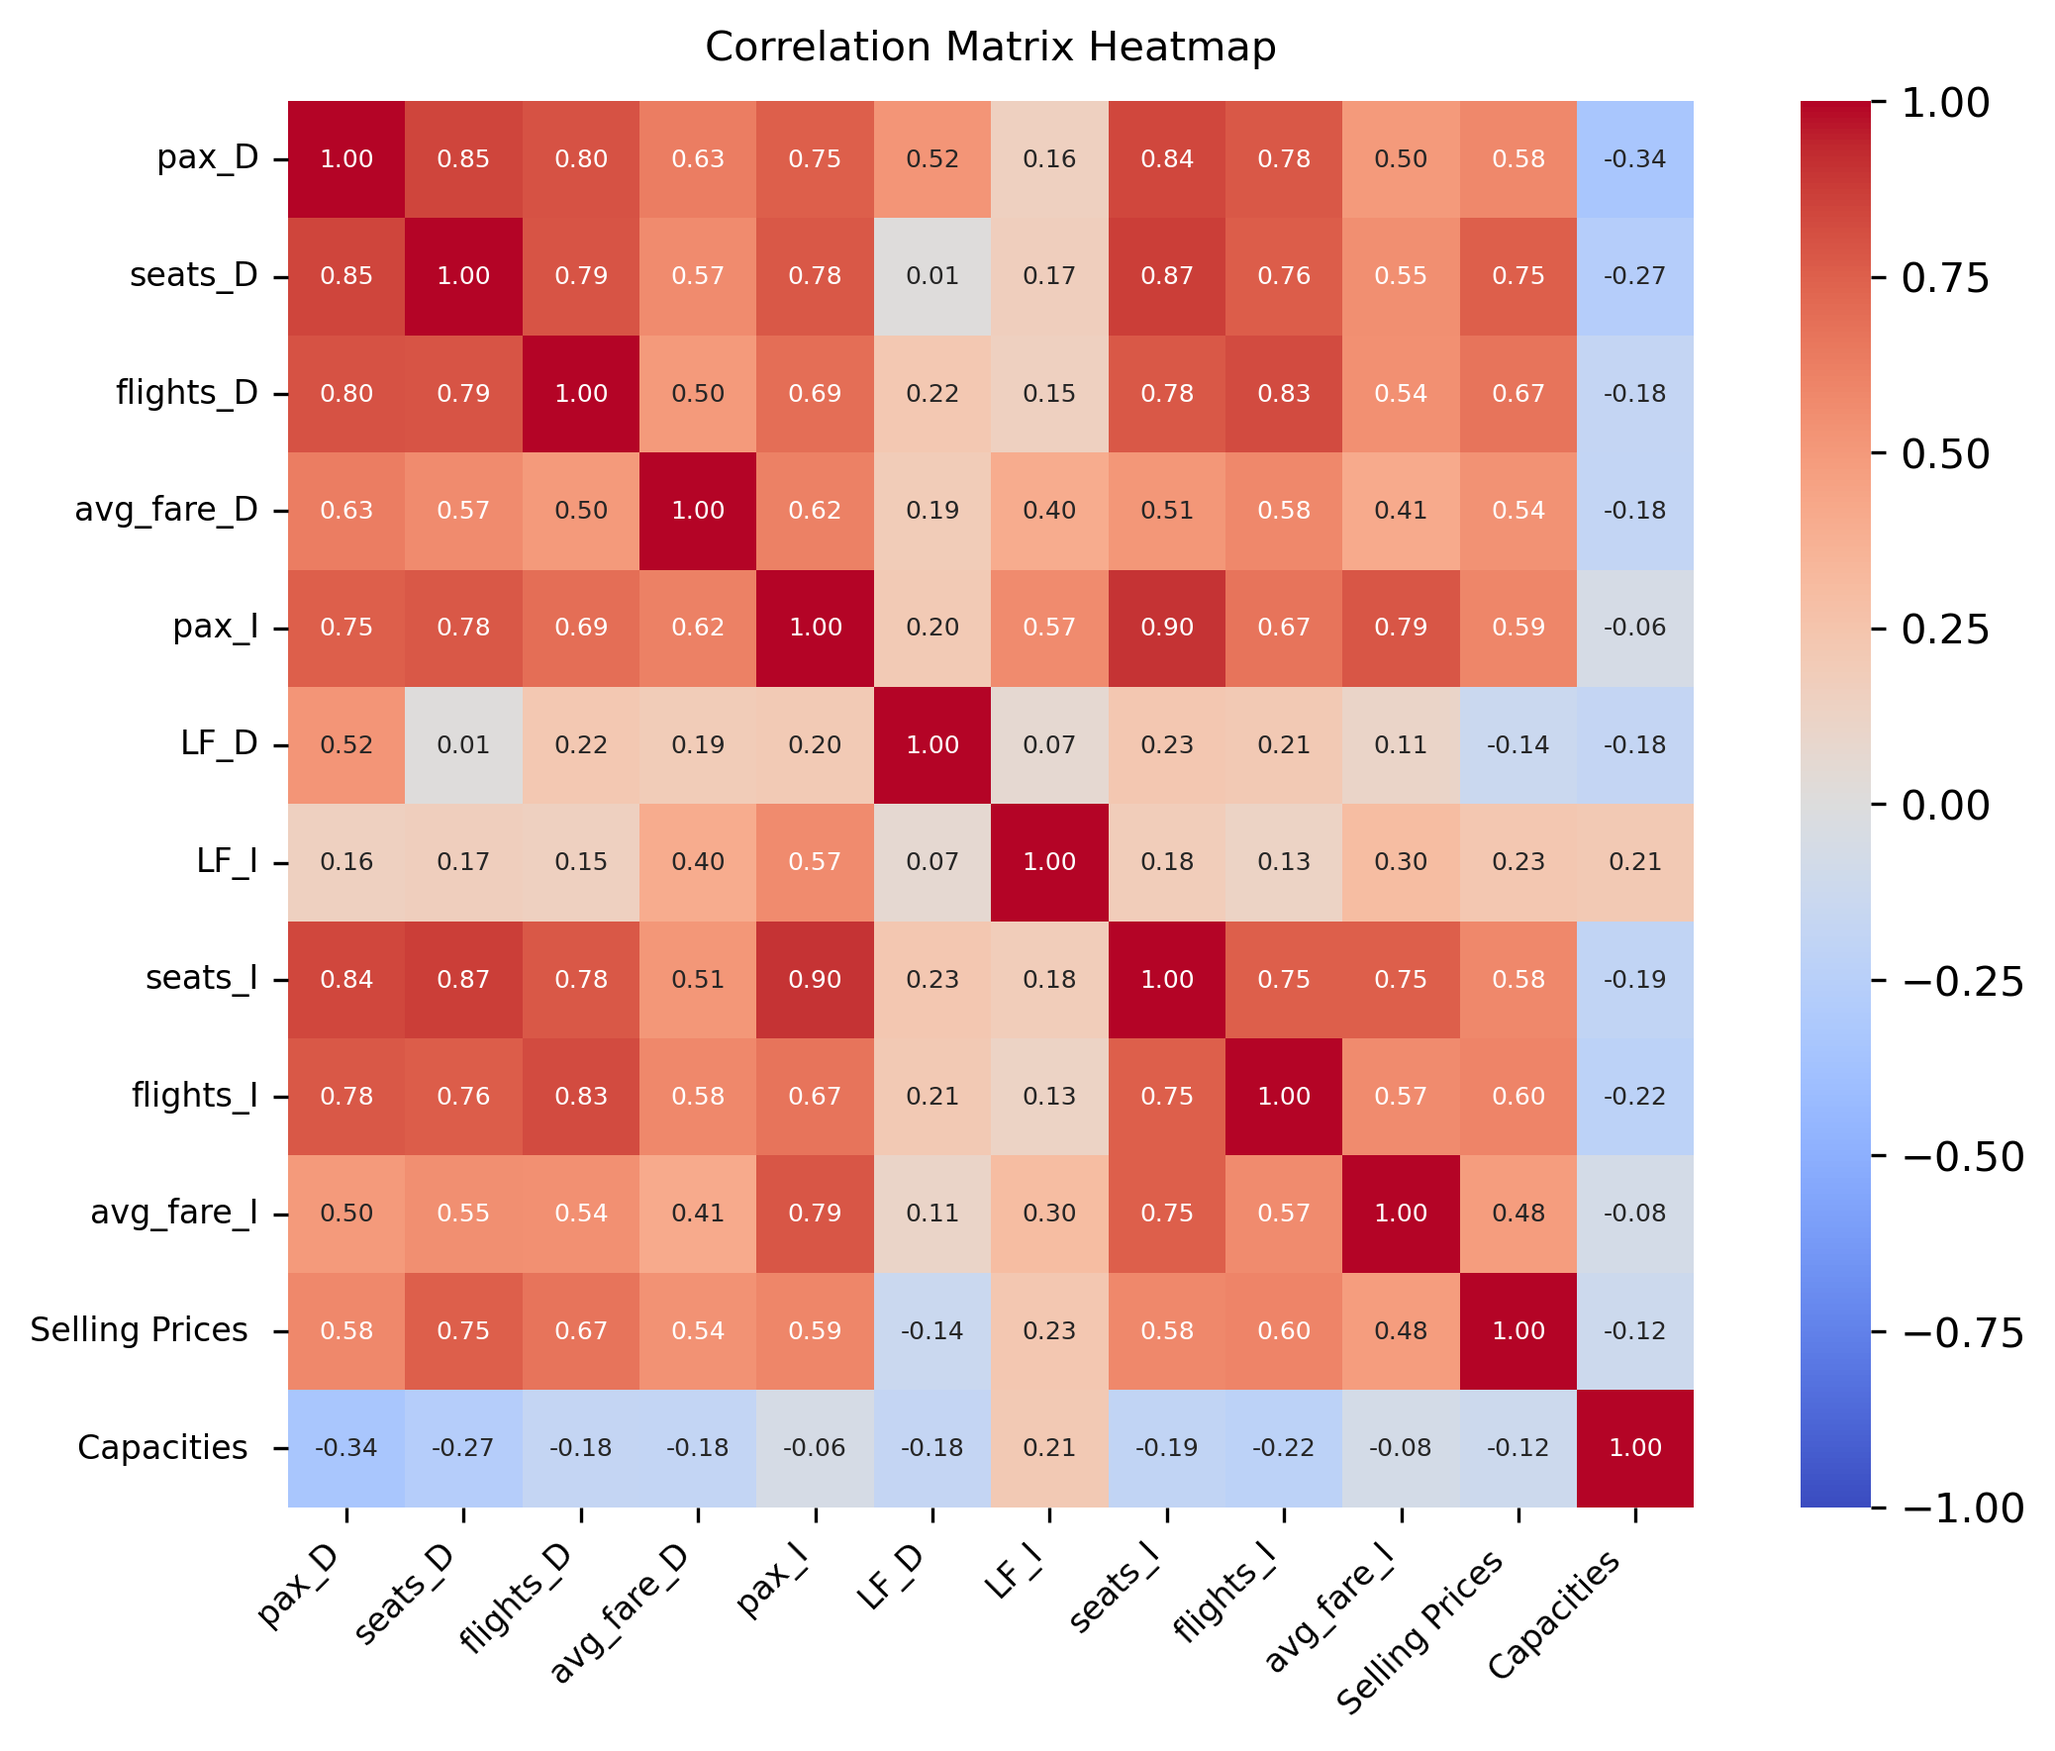
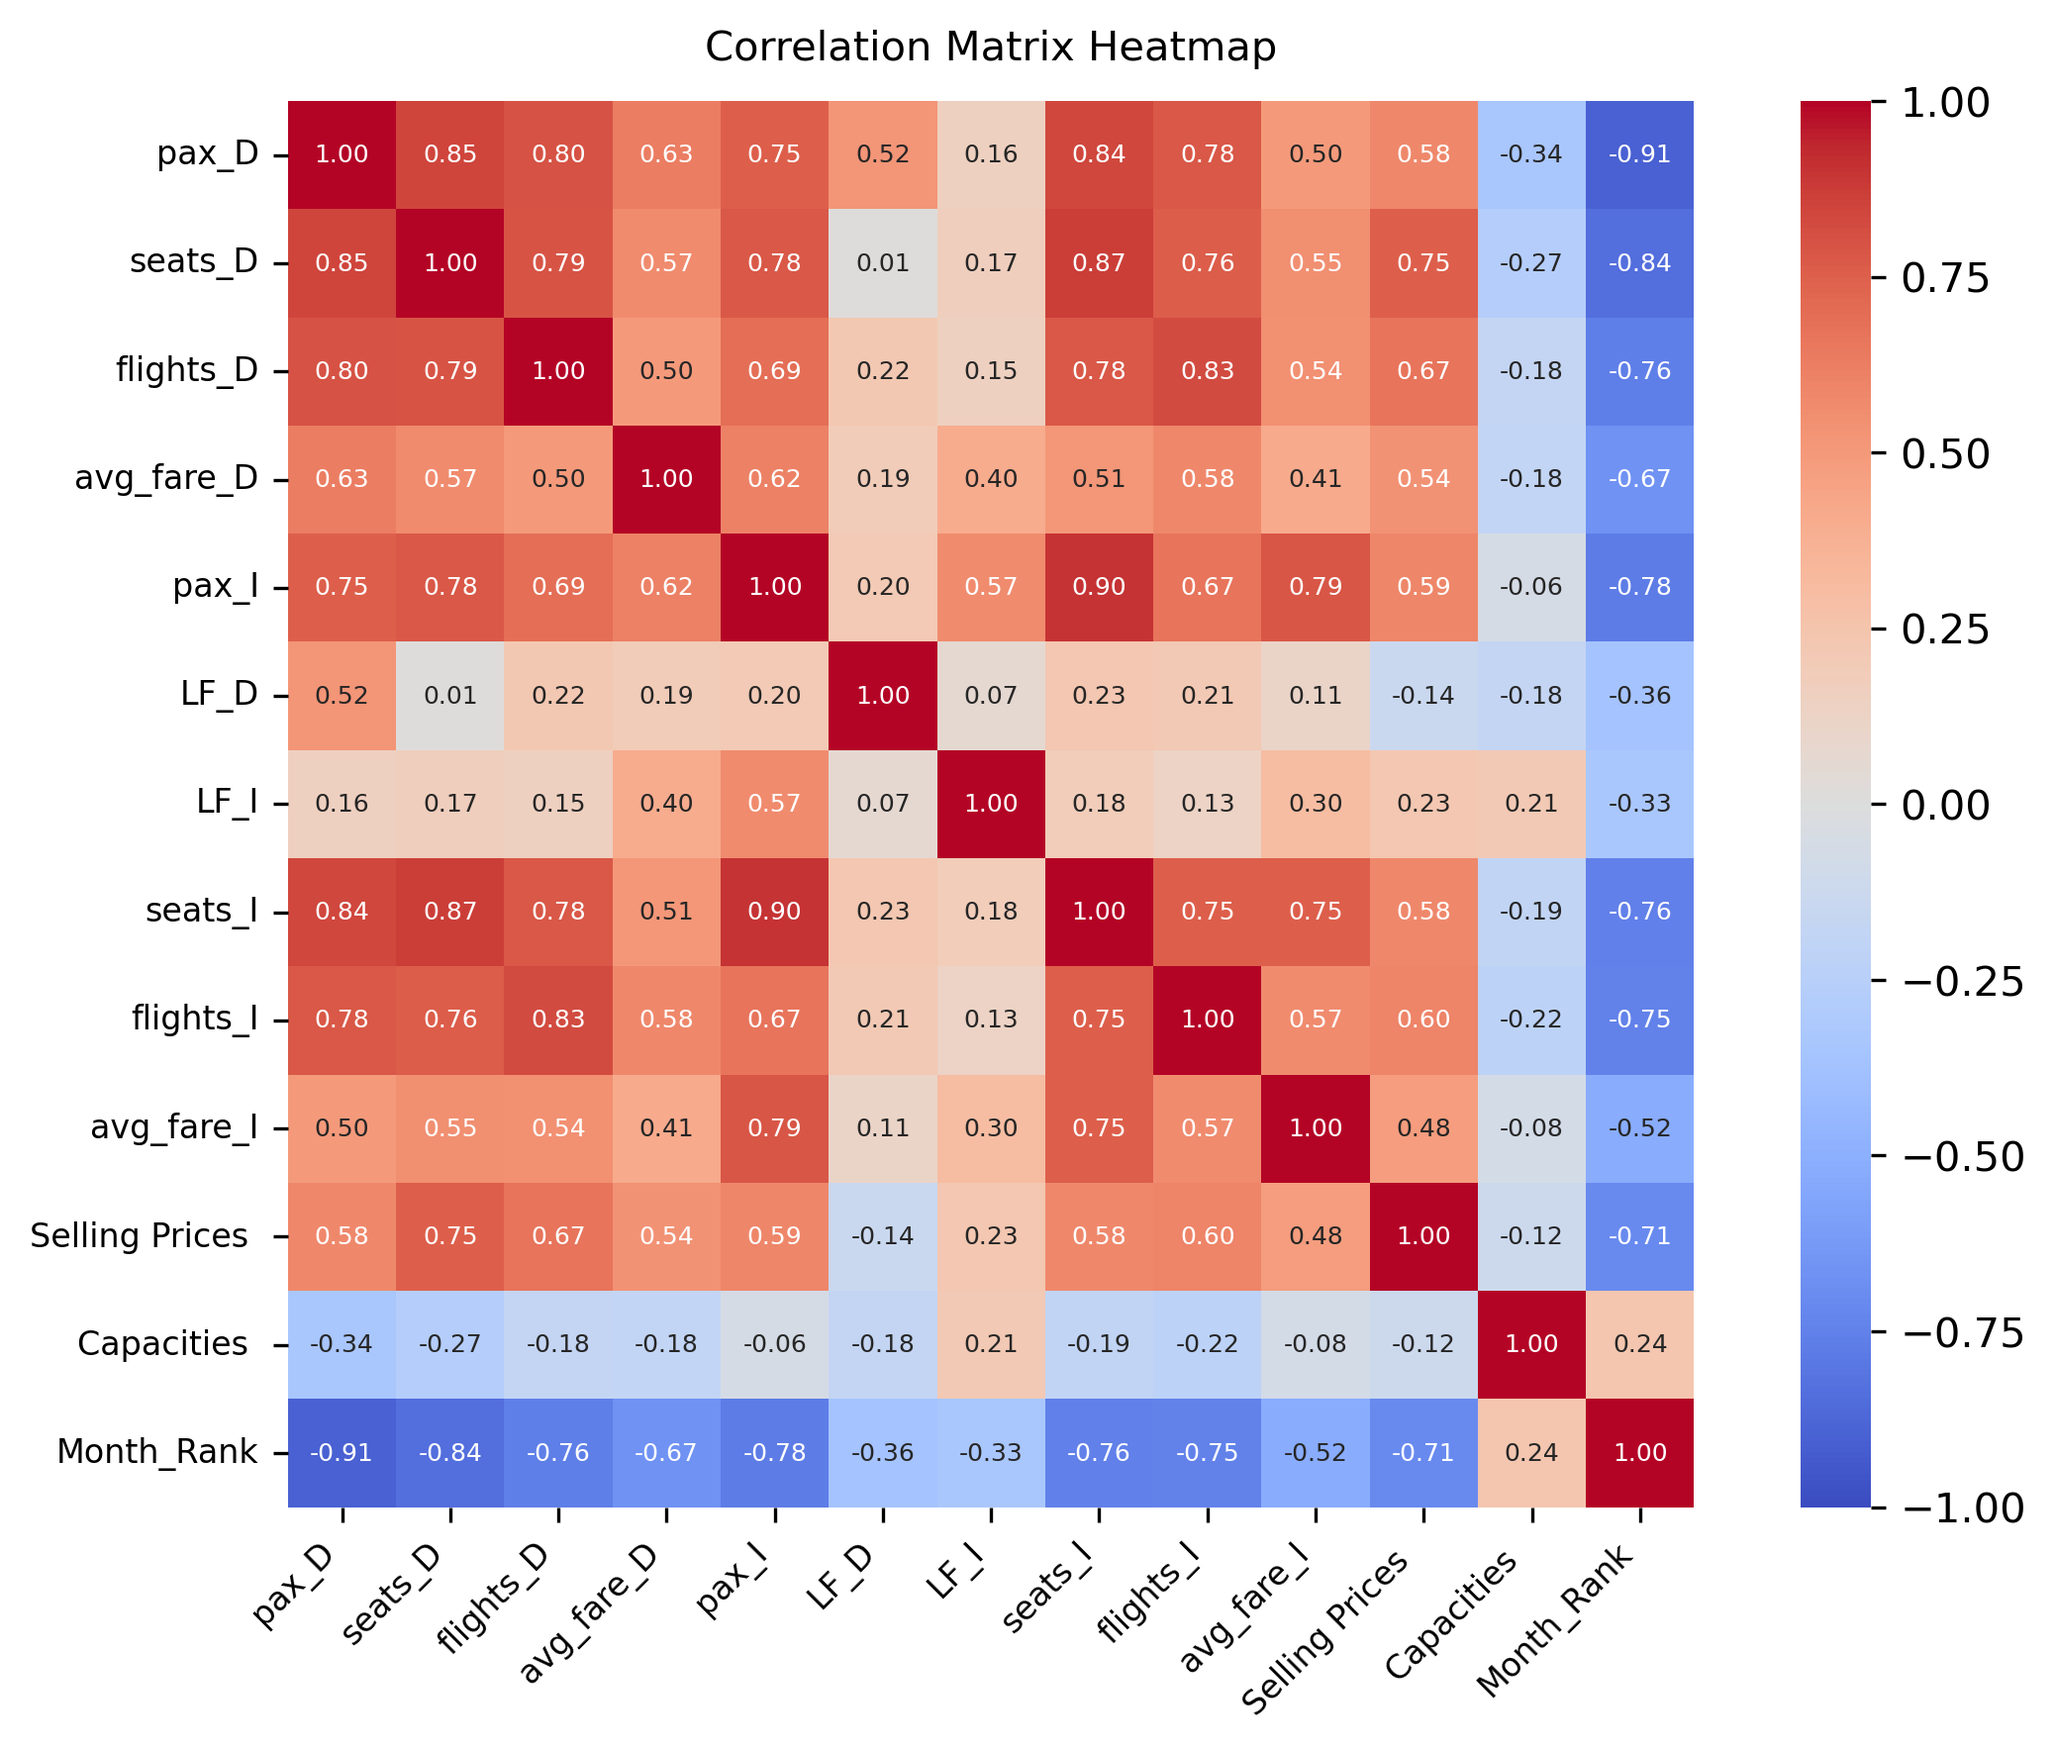
made a linear regr model

diff --git a/test.py b/test.py
@@ -1,0 +1,85 @@
+import pandas as pd
+from sklearn.model_selection import train_test_split
+from sklearn.linear_model import LinearRegression
+from sklearn.preprocessing import StandardScaler
+from sklearn.metrics import mean_absolute_error
+
+# Load the dataset
+df = pd.read_csv('merged_set.csv')
+
+# Print the first few rows of the dataset
+print("First few rows of the dataset:")
+print(df.head())
+
+# Define features and target variables
+features_D = ['avg_fare_D', 'Selling Prices ', 'Capacities ', 'Month_Rank']
+features_I = ['avg_fare_I', 'Selling Prices ', 'Capacities ', 'Month_Rank']
+target_pax_D = 'pax_D'
+target_pax_I = 'pax_I'
+
+# Print the summary statistics of the features and target variables
+print("\nSummary statistics of the features and target variables:")
+print(df[features_D + features_I + [target_pax_D, target_pax_I]].describe())
+
+# Split the data into training and testing sets for pax_D
+X_train_D, X_test_D, y_train_D, y_test_D = train_test_split(df[features_D], df[target_pax_D], test_size=0.2, random_state=42)
+
+# Split the data into training and testing sets for pax_I
+X_train_I, X_test_I, y_train_I, y_test_I = train_test_split(df[features_I], df[target_pax_I], test_size=0.2, random_state=42)
+
+# Print the lengths of the training and testing sets
+print(f"\nNumber of training samples for pax_D: {len(X_train_D)}")
+print(f"Number of testing samples for pax_D: {len(X_test_D)}")
+print(f"Number of training samples for pax_I: {len(X_train_I)}")
+print(f"Number of testing samples for pax_I: {len(X_test_I)}")
+
+# Standardize the features
+scaler = StandardScaler()
+X_train_D = scaler.fit_transform(X_train_D)
+X_test_D = scaler.transform(X_test_D)
+X_train_I = scaler.fit_transform(X_train_I)
+X_test_I = scaler.transform(X_test_I)
+
+# Print the first few rows of the standardized features
+print("\nFirst few rows of the standardized features for pax_D:")
+print(X_train_D[:5])
+print("\nFirst few rows of the standardized features for pax_I:")
+print(X_train_I[:5])
+
+# Function to calculate and print MAE and Bias
+def evaluate_model(y_true, y_pred, model_name, target_name):
+    mae = mean_absolute_error(y_true, y_pred)
+    bias = (y_pred - y_true).mean()
+    print(f'\n{model_name} {target_name} - Mean Absolute Error: {mae:.2f}, Bias: {bias:.2f}, MAE + |Bias|: {mae + abs(bias):.2f}')
+
+# Initialize and train the Linear Regression model for pax_D
+model_D_lr = LinearRegression()
+model_D_lr.fit(X_train_D, y_train_D)
+
+# Make predictions for pax_D using Linear Regression
+y_pred_D_lr = model_D_lr.predict(X_test_D)
+
+# Print all predictions and actual values for pax_D
+print("\nPredictions for pax_D using Linear Regression:")
+print(list(y_pred_D_lr))
+print("\nActual values for pax_D:")
+print(list(y_test_D))
+
+# Evaluate the Linear Regression model for pax_D
+evaluate_model(y_test_D, y_pred_D_lr, 'Linear Regression', 'pax_D')
+
+# Initialize and train the Linear Regression model for pax_I
+model_I_lr = LinearRegression()
+model_I_lr.fit(X_train_I, y_train_I)
+
+# Make predictions for pax_I using Linear Regression
+y_pred_I_lr = model_I_lr.predict(X_test_I)
+
+# Print all predictions and actual values for pax_I
+print("\nPredictions for pax_I using Linear Regression:")
+print(list(y_pred_I_lr))
+print("\nActual values for pax_I:")
+print(list(y_test_I))
+
+# Evaluate the Linear Regression model for pax_I
+evaluate_model(y_test_I, y_pred_I_lr, 'Linear Regression', 'pax_I')

diff --git a/merged_feature_creation.py b/merged_feature_creation.py
@@ -39,7 +39,7 @@ month_rank = {month: rank+1 for rank, month in enumerate(monthly_avg_pax_sorted.
 df['Month_Rank'] = df['Month'].map(month_rank)
 
 # Save the updated dataset to a new CSV file
-df.to_csv('merged_set_with_rank.csv', index=False)
+df.to_csv('merged_set.csv', index=False)
 
 # Display the first few rows of the updated dataset
 print(df.head())
